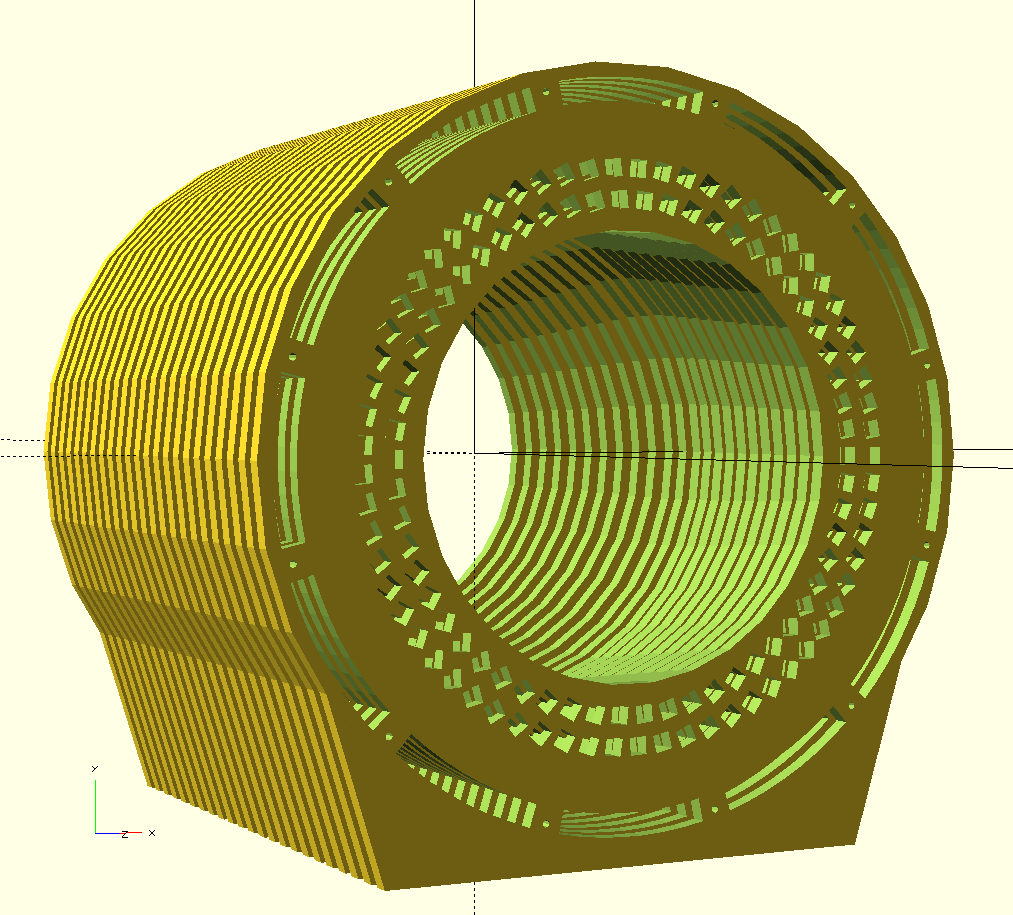
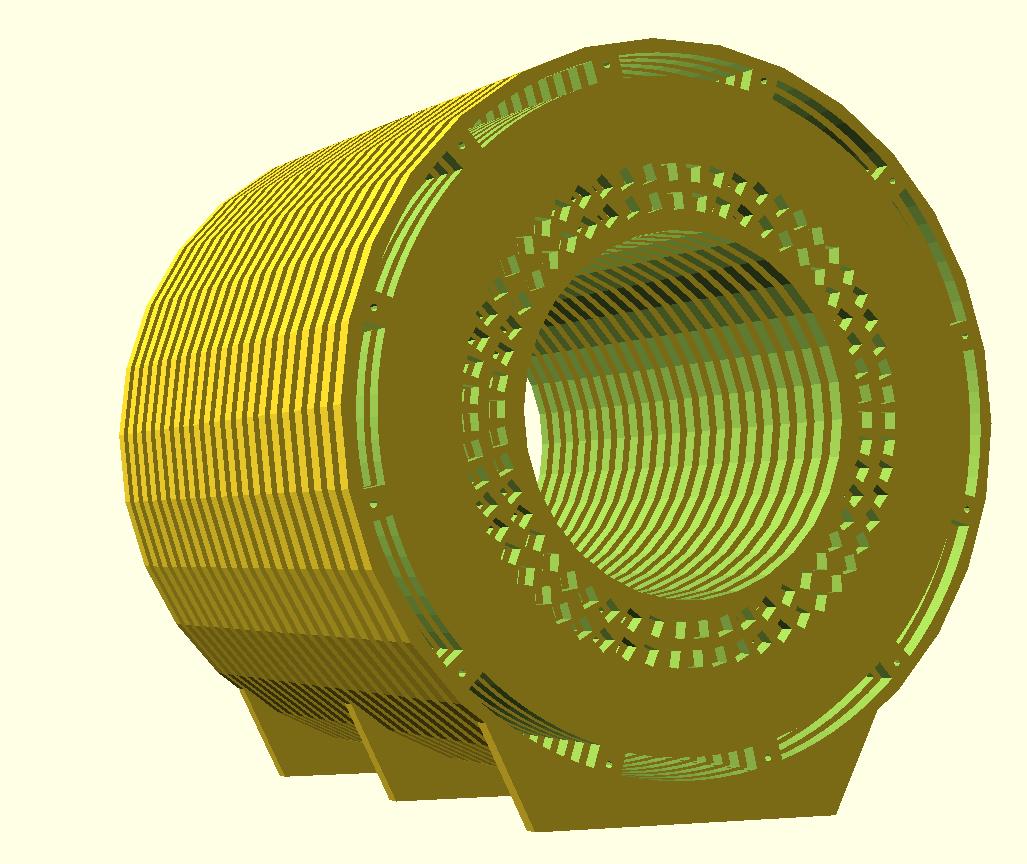
added more parameters to json file

diff --git a/HalbachCylinder.py b/HalbachCylinder.py
@@ -59,24 +59,36 @@ class HalbachCylinder:
         self.params = params
         mirrorSlices = params['mirrorSlices']
         if 'standHeight' in params:
-            standHeight = float(params['standHeight'])/1e3
+            standHeightGlobal = float(params['standHeight'])/1e3
         else:
-            standHeight = 0
+            standHeightGlobal = 0
         if 'standWidth' in params:
-            standWidth = float(params['standWidth'])/1e3
+            standWidthGlobal = float(params['standWidth'])/1e3
         else:
-            standWidth = 0
+            standWidthGlobal = 0
         numConnectionRods = int(params['numConnectionRods'])
+        connectionRodsDiameter = float(params['connectionRodsDiameter'])/1e3
+        connectionRodsArcRadius = float(params['connectionRodsArcRadius'])/1e3
         rings = []
         for ring in params['rings']:
             rings.append(HalbachRing.HalbachRing(0, float(ring['radius'])/1e3, ring['numMagnets'], CubeMagnet))
         for slice in params['slices']:
-            halbachSlice = HalbachSlice.HalbachSlice(float(slice['position'])/1e3, float(slice['innerRadius'])/1e3, float(slice['outerRadius'])/1e3, standHeight, standWidth, numConnectionRods)
+            if 'standHeight' in slice:
+                standHeight = float(slice['standHeight'])/1e3
+            else:
+                standHeight = standHeightGlobal
+            if 'standWidth' in slice:
+                standWidth = float(slice['standWidth'])/1e3
+            else:
+                standWidth = standWidthGlobal
+            halbachSlice = HalbachSlice.HalbachSlice(float(slice['position'])/1e3, float(slice['innerRadius'])/1e3, float(slice['outerRadius'])/1e3, 
+                numConnectionRods, connectionRodsArcRadius, connectionRodsDiameter, standHeight, standWidth)
             for ring in slice['rings']:
                 halbachSlice.addRing(copy.deepcopy(rings[ring['id']]), float(slice['position'])/1e3)
             self.addSlice(halbachSlice)
             if mirrorSlices and float(slice['position']) != 0:
-                halbachSlice = HalbachSlice.HalbachSlice(-float(slice['position'])/1e3, float(slice['innerRadius'])/1e3, float(slice['outerRadius'])/1e3, standHeight, standWidth, numConnectionRods)
+                halbachSlice = HalbachSlice.HalbachSlice(-float(slice['position'])/1e3, float(slice['innerRadius'])/1e3, float(slice['outerRadius'])/1e3, 
+                    numConnectionRods, connectionRodsArcRadius, connectionRodsDiameter, standHeight, standWidth)
                 for ring in slice['rings']:
                     halbachSlice.addRing(copy.deepcopy(rings[ring['id']]), -float(slice['position'])/1e3)
                 self.addSlice(halbachSlice)
@@ -102,12 +114,12 @@ def generateExampleGeometry():
         sizeIndex = innerRingRadii.size - positionIndex
         if sizeIndex >= innerRingRadii.size:
             sizeIndex = innerRingRadii.size-1
-        halbachSlice = HalbachSlice.HalbachSlice(position, innerRingRadii[sizeIndex]-0.020, maxOuterRadius+0.040, standHeight, standWidth)
+        halbachSlice = HalbachSlice.HalbachSlice(position, innerRingRadii[sizeIndex]-0.020, maxOuterRadius+0.040, 12, maxOuterRadius + 0.025, 0.005, standHeight, standWidth)
         halbachSlice.addRing(HalbachRing.HalbachRing(position, innerRingRadii[sizeIndex], innerNumMagnets[sizeIndex], CubeMagnet), position)
         halbachSlice.addRing(HalbachRing.HalbachRing(position, outerRingRadii[sizeIndex], outerNumMagnets[sizeIndex], CubeMagnet), position)
         halbachCylinder.addSlice(halbachSlice)
         if positionIndex != 0:
-            halbachSlice = HalbachSlice.HalbachSlice(-position, innerRingRadii[sizeIndex]-0.020, maxOuterRadius+0.040, standHeight, standWidth)
+            halbachSlice = HalbachSlice.HalbachSlice(-position, innerRingRadii[sizeIndex]-0.020, maxOuterRadius+0.040, 12, maxOuterRadius + 0.025, 0.005, standHeight, standWidth)
             halbachSlice.addRing(HalbachRing.HalbachRing(-position, innerRingRadii[sizeIndex], innerNumMagnets[sizeIndex], CubeMagnet), -position)
             halbachSlice.addRing(HalbachRing.HalbachRing(-position, outerRingRadii[sizeIndex], outerNumMagnets[sizeIndex], CubeMagnet), -position)
             halbachCylinder.addSlice(halbachSlice)
@@ -118,7 +130,7 @@ if __name__ == '__main__':
     halbachCylinder.loadJSON('examples/mri1.json')
 
     # alternative to json file
-    #halbachCylinder = generateExampleGeometry()
+    # halbachCylinder = generateExampleGeometry()
 
     resolution = 0.005
     dsv = 0.2

diff --git a/HalbachSlice.py b/HalbachSlice.py
@@ -26,18 +26,18 @@ def arc( height, depth, radius, degrees ):
     return arc
 
 class HalbachSlice:
-    def __init__(self, position, innerRadius, outerRadius, standHeight = 0, standWidth = 0, numConnectionRods = 12):
+    def __init__(self, position, innerRadius, outerRadius, numConnectionRods, connectionRodsArcRadius, connectionRodsDiameter, standHeight = 0, standWidth = 0):
         self.position = position
         self.innerRadius = innerRadius
         self.outerRadius = outerRadius
         self.standHeight = standHeight
         self.standWidth = standWidth
         self.numConnectionRods = numConnectionRods
-        self.connectionRodDiameter = 0.005 # assume M5
+        self.connectionRodDiameter = connectionRodsDiameter
         self.shimTrayHeight = 0.014
         self.shimTrayAngle = 25
         self.shimTrayRadius = self.outerRadius*1e3 - 10
-        self.rodRadius = self.outerRadius*1e3 - 15
+        self.rodRadius = connectionRodsArcRadius*1e3
         self.rings = []
     
     def addRing(self, ring, position):
